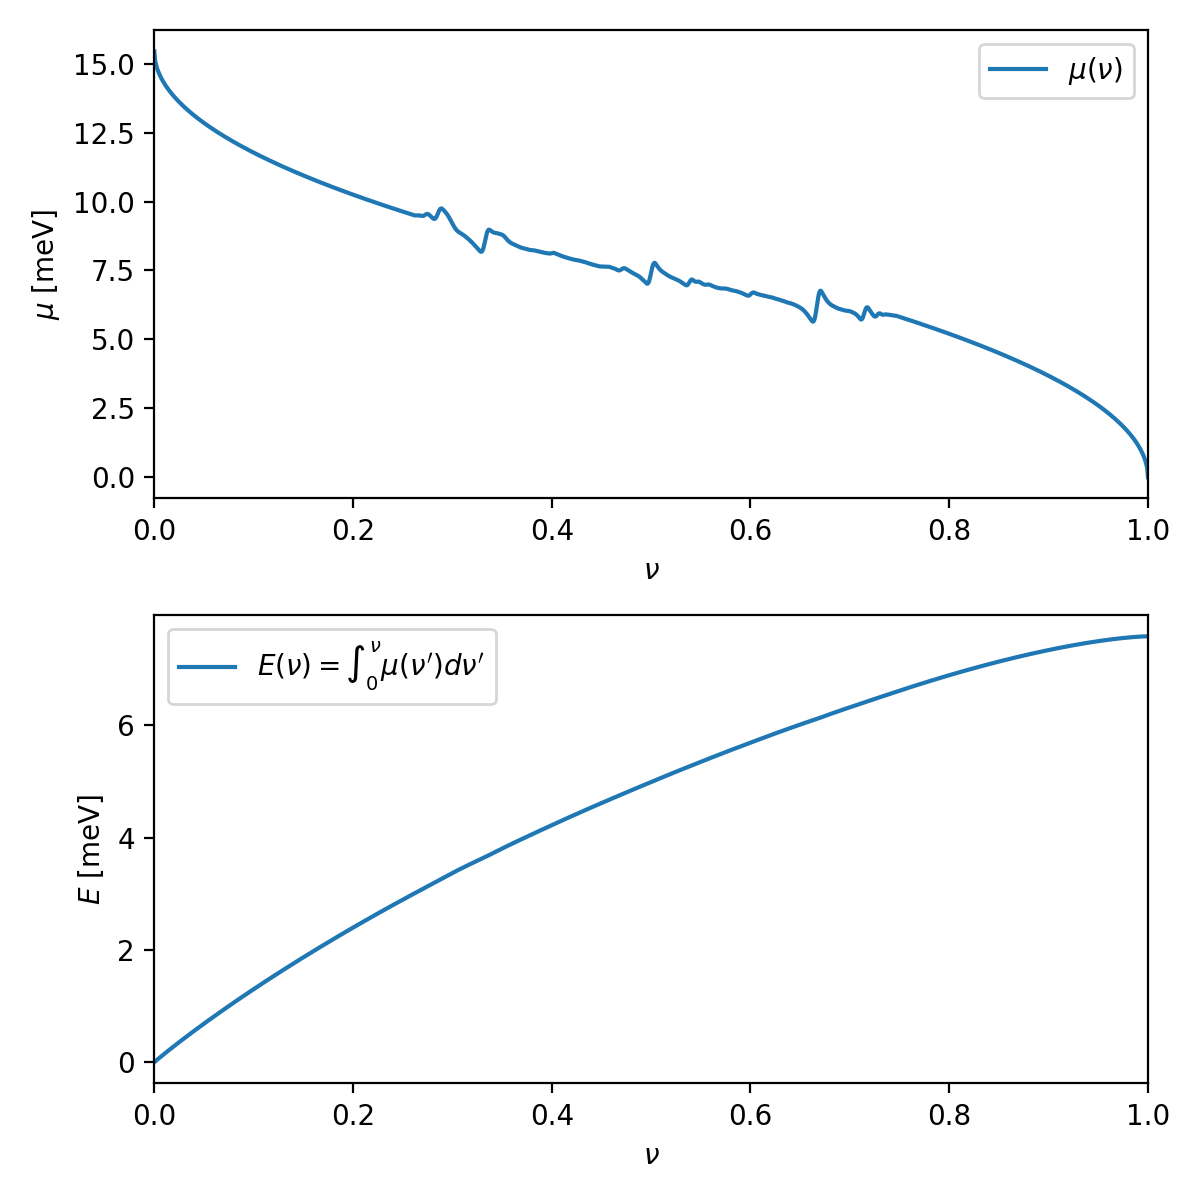
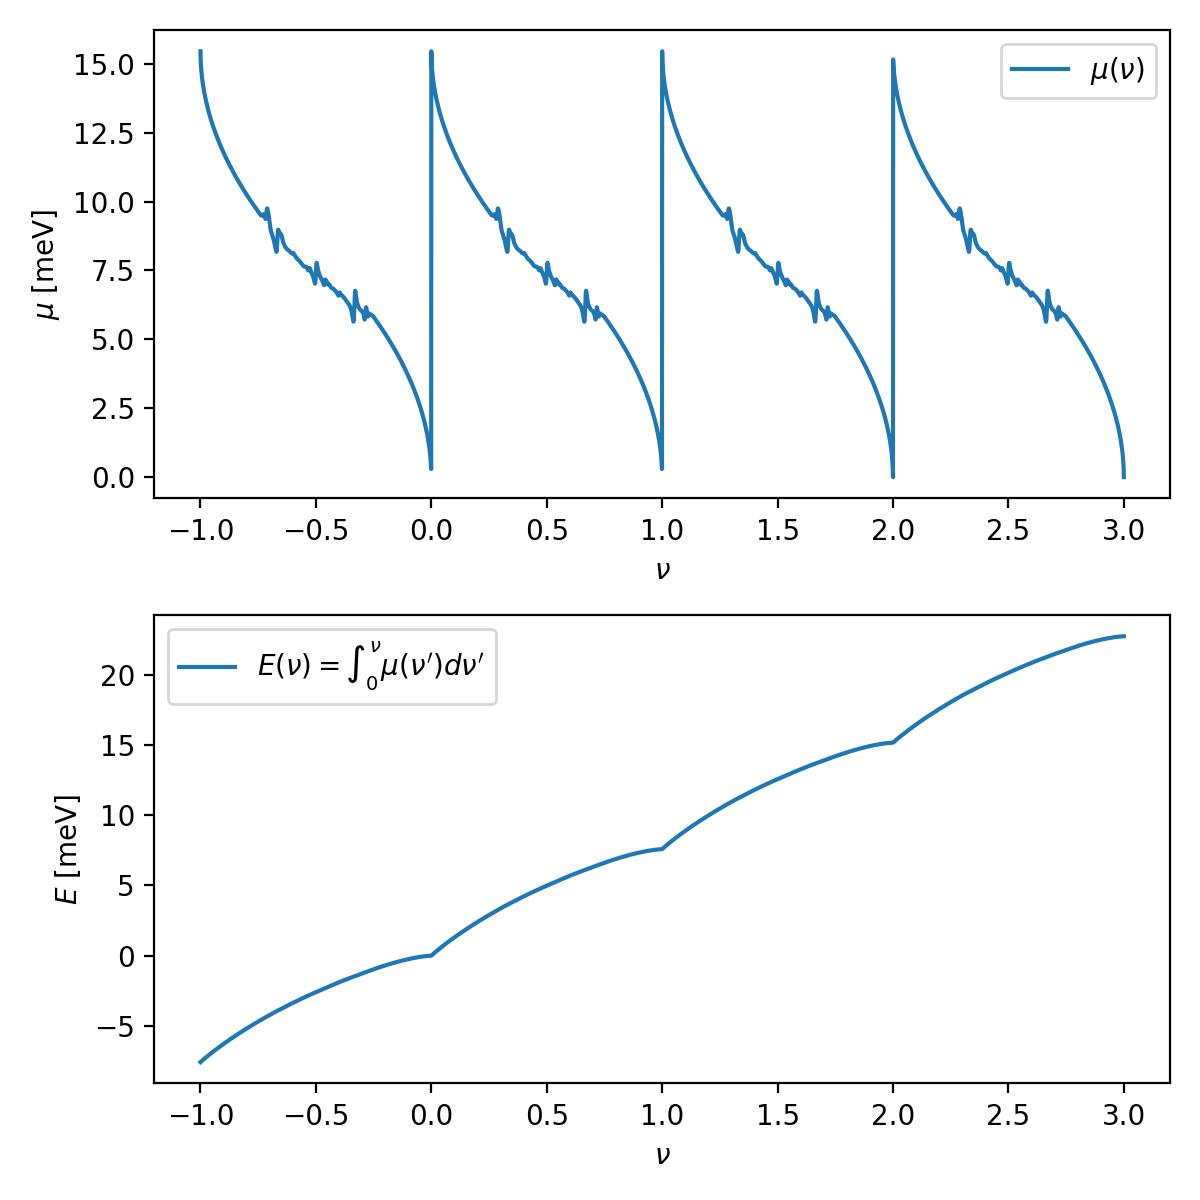
pseudo model

diff --git a/Wigner_Crystal/plot.py b/Wigner_Crystal/plot.py
@@ -34,17 +34,35 @@ plt.savefig("wc_ref_mu.png", dpi=200)
 
 param=6.0
 offset= -(-1.173 * (1-0.746)**0.5* 56.1 /4.0 *np.sqrt(18) /param-1.541)
-
 print(offset)
 nus1 = np.linspace(0.0, 0.262, 100)
 nus2 = np.linspace(0.746, 1.0, 100)
 mu_meV_modified1 = -1.173 * (nus1**0.5-0.262**0.5)* 56.1 /4.0 *np.sqrt(18) /param+2.096+offset
 mu_meV_modified2 = 1.173 * ((1-nus2)**0.5-0.254**0.5)* 56.1 /4.0 *np.sqrt(18) /param-1.541+offset
 mu_paper = np.loadtxt("mu_paper.csv", delimiter=",", skiprows=1)
+
+nus3 = np.linspace(0.0+1, 0.262+1, 100)
+nus4 = np.linspace(0.746+1, 1.0+1, 100)
+mu_meV_modified3 = -1.173 * (nus1**0.5-0.262**0.5)* 56.1 /4.0 *np.sqrt(18) /param+2.096+offset
+mu_meV_modified4 = 1.173 * ((1-nus2)**0.5-0.254**0.5)* 56.1 /4.0 *np.sqrt(18) /param-1.541+offset
+
+nus5 = np.linspace(0.0+2, 0.262+2, 100)
+nus6 = np.linspace(0.746+2, 1.0+2, 100)
+mu_meV_modified5 = -1.173 * (nus1**0.5-0.262**0.5)* 56.1 /4.0 *np.sqrt(18) /param+2.096+offset
+mu_meV_modified6 = 1.173 * ((1-nus2)**0.5-0.254**0.5)* 56.1 /4.0 *np.sqrt(18) /param-1.541+offset
+
 plt.figure(figsize=(6, 4))
 plt.plot(mu_paper[:,0], mu_paper[:,1]+offset)
 plt.plot(nus1, mu_meV_modified1, "--", label=r"Ref: $\mu=-1.173\nu^{0.5}E_C/1.5$")
 plt.plot(nus2, mu_meV_modified2, "--", label=r"Ref: $\mu=-1.173\nu^{0.5}E_C/1.5$")
+mu_paper2=mu_paper[:,0]+1
+plt.plot(mu_paper2, mu_paper[:,1]+offset)
+plt.plot(nus3, mu_meV_modified3, "--", label=r"Ref: $\mu=-1.173\nu^{0.5}E_C/1.5$")
+plt.plot(nus4, mu_meV_modified4, "--", label=r"Ref: $\mu=-1.173\nu^{0.5}E_C/1.5$")
+mu_paper3=mu_paper[:,0]+2
+plt.plot(mu_paper3, mu_paper[:,1]+offset)
+plt.plot(nus5, mu_meV_modified5, "--", label=r"Ref: $\mu=-1.173\nu^{0.5}E_C/1.5$")
+plt.plot(nus6, mu_meV_modified6, "--", label=r"Ref: $\mu=-1.173\nu^{0.5}E_C/1.5$")
 plt.xlabel(r"$\nu$")
 plt.ylabel(r"$\mu$ [meV]")
 plt.title("Wigner crystal energy (reference)")
@@ -70,9 +88,40 @@ mu_b = mu_paper[mask_b, 1] + offset
 nu_c = np.linspace(0.746, 1.0, 400)
 mu_c = 1.173 * ((1 - nu_c)**0.5 - 0.254**0.5) * 56.1 / 4.0 * np.sqrt(18) / param - 1.541 + offset
 
+nu_d = np.linspace(0.0+1, 0.262+1, 400)
+mu_d = -1.173 * (nu_a**0.5 - 0.262**0.5) * 56.1 / 4.0 * np.sqrt(18) / param + 2.096 + offset
+
+mask_e = (mu_paper[:, 0] >= 0.262) & (mu_paper[:, 0] <= 0.746)
+nu_e = mu_paper[mask_b, 0] + 1
+mu_e = mu_paper[mask_b, 1] + offset
+
+nu_f = np.linspace(0.746+1, 1.0+1, 400)
+mu_f = 1.173 * ((1 - nu_c)**0.5 - 0.254**0.5) * 56.1 / 4.0 * np.sqrt(18) / param - 1.541 + offset
+
+nu_g = np.linspace(0.0+2, 0.262+2, 400)
+mu_g = -1.173 * (nu_a**0.5 - 0.262**0.5) * 56.1 / 4.0 * np.sqrt(18) / param + 2.096 + offset
+
+mask_h = (mu_paper[:, 0] >= 0.262) & (mu_paper[:, 0] <= 0.746)
+nu_h = mu_paper[mask_b, 0] + 2
+mu_h = mu_paper[mask_b, 1] + offset
+
+nu_i = np.linspace(0.746+2, 1.0+2, 400)
+mu_i = 1.173 * ((1 - nu_c)**0.5 - 0.254**0.5) * 56.1 / 4.0 * np.sqrt(18) / param - 1.541 + offset
+
+nu_j = np.linspace(0.0-1, 0.262-1, 400)
+mu_j = -1.173 * (nu_a**0.5 - 0.262**0.5) * 56.1 / 4.0 * np.sqrt(18) / param + 2.096 + offset
+
+mask_k = (mu_paper[:, 0] >= 0.262) & (mu_paper[:, 0] <= 0.746)
+nu_k = mu_paper[mask_b, 0] - 1
+mu_k = mu_paper[mask_b, 1] + offset
+
+nu_l = np.linspace(0.746-1, 1.0-1, 400)
+mu_l = 1.173 * ((1 - nu_c)**0.5 - 0.254**0.5) * 56.1 / 4.0 * np.sqrt(18) / param - 1.541 + offset
+
+
 # Concatenate and sort to ensure monotonic ν
-nu_all = np.concatenate([nu_a, nu_b, nu_c])
-mu_all = np.concatenate([mu_a, mu_b, mu_c])
+nu_all = np.concatenate([nu_a, nu_b, nu_c, nu_d, nu_e, nu_f, nu_g, nu_h, nu_i, nu_j, nu_k, nu_l])
+mu_all = np.concatenate([mu_a, mu_b, mu_c, mu_d, mu_e, mu_f, mu_g, mu_h, mu_i, mu_j, mu_k, mu_l])
 order = np.argsort(nu_all)
 nu_all = nu_all[order]
 mu_all = mu_all[order]
@@ -91,6 +140,10 @@ def _cumtrapz(y, x):
 # Integrate: E(ν) = ∫_0^ν μ(ν') dν' (meV)
 E_all = _cumtrapz(mu_all, nu_all)
 
+# Shift baseline so that E(0) = 0 exactly
+E_at_zero = np.interp(0.0, nu_all, E_all)
+E_all = E_all - E_at_zero
+
 # Save CSV
 out = np.stack([nu_all, mu_all, E_all], axis=1)
 np.savetxt("/Users/rikutofushio/00ARIP/Thomas-Fermi-Folder/Thomas-Fermi/data/0-data/Exc_BLG_crude.csv", out, delimiter=",", header="nu,mu_meV,E_meV", comments="")
@@ -101,14 +154,14 @@ ax1 = plt.subplot(2, 1, 1)
 ax1.plot(nu_all, mu_all, label=r"$\mu(\nu)$")
 ax1.set_xlabel(r"$\nu$")
 ax1.set_ylabel(r"$\mu$ [meV]")
-ax1.set_xlim(0.0, 1.0)
+#ax1.set_xlim(0.0, 1.0)
 ax1.legend()
 
 ax2 = plt.subplot(2, 1, 2)
 ax2.plot(nu_all, E_all, label=r"$E(\nu)=\int_0^\nu \mu(\nu') d\nu'$")
 ax2.set_xlabel(r"$\nu$")
 ax2.set_ylabel(r"$E$ [meV]")
-ax2.set_xlim(0.0, 1.0)
+#ax2.set_xlim(0.0, 1.0)
 ax2.legend()
 
 plt.tight_layout()
